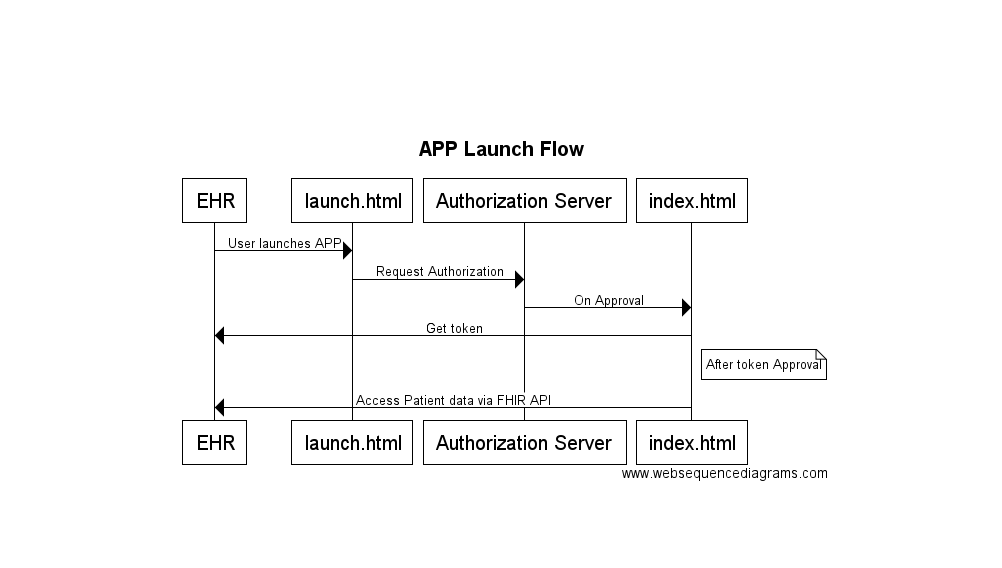
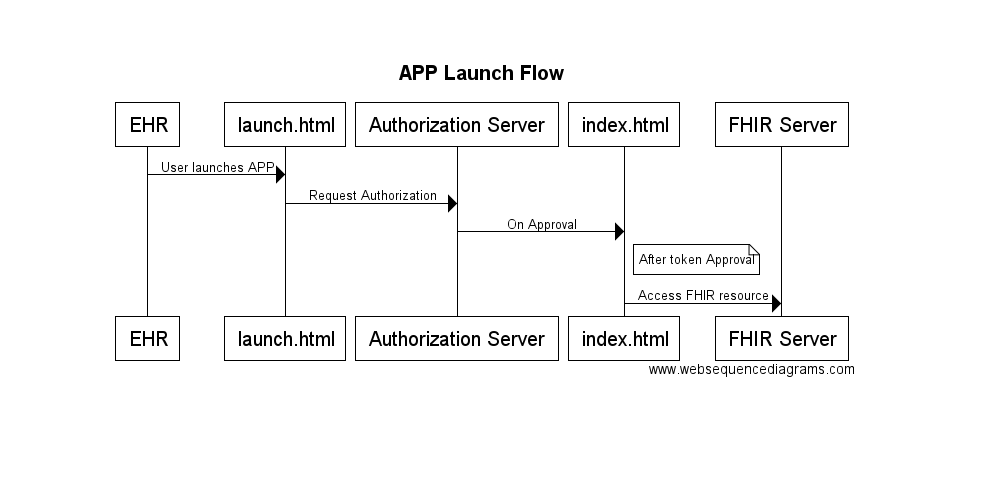
Changed according to review

diff --git a/index.html b/index.html
@@ -115,28 +115,21 @@
       <div class="content">
         <h1 id="introduction">Introduction</h1>
 
-<p>This document will help you get started on how to use SMART on FHIR API to create your app with CERNER.</p>
+<p>This document will help you get started on how to use SMART on FHIR API to create your app with Cerner.</p>
 
 <h1 id="app-launch-flow">APP Launch Flow</h1>
 
-<p><img title="High Level EHR APP Launch Flow" alt="alt text" src="/images/ehr_launch_seq.PNG" /></p>
+<p><img title="High Level EHR APP Launch Flow" alt="alt text" src="images/ehr_launch_seq.PNG" /></p>
 
 <h1 id="project-set-up">Project Set up</h1>
 
-<p>Create your project on any hosting platform and create following files:</p>
+<p>Clone the project structure from <a href="https://github.com/parthivbhagat/smart-starter-app-es5">smart-starter-app</a>. </p>
 
-<ul>
-<li>launch.html </li>
-<li>index.html </li>
-<li>src/js/starter_app.js </li>
-<li>src/css/starter_app.css</li>
-</ul>
+<p>The project structure includes follwing important files:</p>
 
-<p>You can also clone the project structure from <a href="https://github.com/parthivbhagat/smart-starter-app-es5">smart-app-starter</a>. </p>
+<p><strong>fhir-client.js</strong></p>
 
-<h1 id="install-fhir-client-js">Install fhir-client.js</h1>
-
-<p>Download <a href="https://github.com/smart-on-fhir/client-js/blob/master/dist/fhir-client.js">fhir-client.js</a> and place it under lib folder. This is the open source FHIR javascript library which would help us with OAUTH2 transactions.</p>
+<p>This is the open source FHIR javascript library which would help us with OAUTH2 transactions.</p>
 
 <p>The SMART on FHIR JavaScript client library helps you build browser-based SMART apps that interact with a FHIR REST API server. It can help your app get authorization tokens, provide information about the user and patient record in context, and issue API calls to fetch clinical data. This tutorial will lead you through the basics of building a SMART app using the JavaScript client.</p>
 
@@ -147,9 +140,17 @@
 <li><em>smart.patient.api</em> Context aware API which automatically applies its operations to the patient in context</li>
 </ul>
 
-<h1 id="registering-smart-app">Registering SMART APP</h1>
+<p><strong>launch.html</strong></p>
 
-<p>Once we have the SMART App created per the Project Setup step, get the application hosted. Your application is now ready to be registered with CERNER. Go to the link <a href="https://code.cerner.com/developer/smart-on-fhir/register">Developer Portal APP Registration</a>, sign into your CERNER Care Account and fill up following details:</p>
+<p>This html file is used to authorize the App with FHIR server for scopes the App is trying to use</p>
+
+<p><strong>index.html</strong></p>
+
+<p>This html file is primarily used to display resources on front end</p>
+
+<h1 id="registering-smart-app">Registering SMART App</h1>
+
+<p>Once we have the SMART App created per the Project Setup step, get the application hosted. Your application is now ready to be registered with Cerner. Go to the link <a href="https://code.cerner.com/developer/smart-on-fhir/register">Developer Portal APP Registration</a>, sign into your Cerner Care Account and fill up following details:</p>
 
 <table><thead>
 <tr>
@@ -163,19 +164,19 @@
 </tr>
 <tr>
 <td>SMART Launch URI</td>
-<td>URL to the launch.html file . Like https://app_url/launch.html</td>
+<td>URL to the launch.html file . Like https://<username>.github.io/smart-starter-app/launch.html</td>
 </tr>
 <tr>
 <td>Redirect URI</td>
-<td>Just put your base app url. Like https://app_url/</td>
+<td>Just put your base app url. Like https://<username>.github.io/smart-starter-app/index.html</td>
 </tr>
 <tr>
 <td>App Type</td>
-<td>SMART App type. Provider facing or Patient facing App.</td>
+<td>Select Patient facing App.</td>
 </tr>
 <tr>
 <td>FHIR Spec</td>
-<td>The FHIR server version you want to target your SMART App against.</td>
+<td>Select DSTU2</td>
 </tr>
 <tr>
 <td>Authorized</td>
@@ -187,19 +188,19 @@
 </tr>
 <tr>
 <td>User Scopes</td>
-<td>Select appropriate user scopes</td>
+<td>Dont select anything here</td>
 </tr>
 <tr>
 <td>Patient Scopes</td>
-<td>Select appropriate patient scopes</td>
+<td>Select Patient and Observation scopes</td>
 </tr>
 </tbody></table>
 
-<p>and click Register. This will send request to CERNER FHIR group for them to create client id for the app authorization.</p>
+<p>and click Register. This will send request to Cerner FHIR group for them to create client id for the app authorization.</p>
 
 <p>After this you will receive an email stating what your Client ID and Launch URL is.</p>
 
-<h1 id="initializing-the-client">Initializing the client</h1>
+<h1 id="request-authorization">Request Authorization</h1>
 
 <blockquote>
 <p>launch.html</p>
@@ -230,11 +231,13 @@
 <p>Make sure to replace CLIENT_ID with the client id provided in the email.</p>
 </blockquote>
 
+<p>FHIR.oauth2.authorize will call the following URL with requested scopes <em>https://authorization.sandboxcerner.com/tenants/d075cf8b-3261-481d-97e5-ba6c48d3b41f/protocols/oauth2/profiles/smart-v1/personas/provider/authorize?client_id=df7c5a17-52dd-4c88-8a32-cdfb557ba758&amp;response_type=code&amp;scope=patient%2FPatient.read%20patient%2FObservation.read%20launch%20online_access-%20openid%20profile&amp;redirect_uri=https%3A%2F%2Fparthivbhagat.github.io%2Fpb026393.github.io%2F&amp;state=a0d52f29-8ff1-a186-8337-2a9018979f72&amp;aud=https%3A%2F%2Ffhir.sandboxcernerpowerchart.com%2Fdstu2%2Fd075cf8b-3261-481d-97e5-ba6c48d3b41f&amp;launch=d831018a-bd90-48b1-8c91-e6b346c7f1ea</em></p>
+
 <p>Before you are able to run any operations against the FHIR API using the JS client, you will need to initialize it first.</p>
 
 <p>Based on the client_id, current EHR user, the EHR makes a decision to approve or deny access. This decision is communicated to the app by redirection to the app&rsquo;s registered redirect URL. So always make sure we replace the CLIENT_ID with client id provided after your APP gets registered.</p>
 
-<p>When an EHR user launches your app, you get a “launch request” notification. Just ask for the permissions you need using OAuth scopes like patient/*.read and once you’re authorized you’ll have an access token with the permissions you need – including access to clinical data and context like:</p>
+<p>When an EHR user launches your app, you get a “launch request” notification. Just ask for the permissions you need using OAuth scopes( like patient/Patient.read ) and once you’re authorized you’ll have an access token with the permissions you need – including access to clinical data and context like:</p>
 
 <ul>
 <li>which patient is in-context in the EHR</li>
@@ -251,15 +254,15 @@
 </tr>
 </thead><tbody>
 <tr>
-<td>patient/*.read</td>
-<td>Permission to read any resource for the current patient</td>
+<td>patient/Patient.read</td>
+<td>Permission to read Patient resource for the current patient</td>
 </tr>
 <tr>
-<td>user/*.*</td>
-<td>Permission to read and write all resources that the current user can access</td>
+<td>patient/Observation.read</td>
+<td>Permission to read Observation resource for the current patient</td>
 </tr>
 <tr>
-<td>openid profile</td>
+<td>openid, profile</td>
 <td>Permission to retrieve information about the current logged-in user</td>
 </tr>
 <tr>
@@ -271,21 +274,19 @@
 <td>When launching outside the EHR, ask for a patient to be selected at launch time</td>
 </tr>
 <tr>
-<td>offline_access</td>
-<td>Request a refresh_token that can be used to obtain a new access token to replace an expired one, even after the end-user no long is online after the access token rexpires</td>
-</tr>
-<tr>
 <td>online_access</td>
 <td>Request a refresh_token that can be used to obtain a new access token to replace an expired one, and that will be usable for as long as the end-user remains online.</td>
 </tr>
 </tbody></table>
 
 <p>For our APP we will use Patient.read, Observation.read.
-We will always include launch, online_access, openid profile scopes to our APP.</p>
+We will always include launch, online_access, openid &amp; profile scopes to our APP.</p>
 
-<p><strong>Note:</strong> Cerner does not allow use of wildcards(*). So instead of patient/*.read you will need specify a particular scope of resource you will be using. Something like patient/Patient.read, patient/Observation.read etc. For list of resources visit <a href="http://fhir.cerner.com/">http://fhir.cerner.com/</a> </p>
+<aside class="notice">
+Cerner does not allow use of wildcards(*). So instead of patient/\*.read you will need specify a particular scope of resource you will be using. Something like patient/Patient.read, patient/Observation.read etc. For list of resources visit [http://fhir.cerner.com/](http://fhir.cerner.com/) 
+</aside> 
 
-<h1 id="obtaining-the-context">Obtaining the context</h1>
+<h1 id="access-fhir-resource">Access FHIR Resource</h1>
 
 <blockquote>
 <p>starter_app.js</p>
@@ -454,6 +455,10 @@ and many others</li>
 
 <p>Please see the fhir.js documentation for the complete list of available operations.</p>
 
+<p>smart.patient.read() calls the FHIR server to get the Patient resource. The URL for the call looks like this <em>https://fhir.sandboxcernerpowerchart.com/dstu2/d075cf8b-3261-481d-97e5-ba6c48d3b41f/Patient/1316024</em></p>
+
+<p>smart.patient.api.fetchAll({type: &lsquo;Observation&rsquo;, query:&ldquo;}) calls FHIR server to get Observation Resource. The URL looks like <em>https://fhir.sandboxcernerpowerchart.com/dstu2/d075cf8b-3261-481d-97e5-ba6c48d3b41f/Observation?code=http%3A%2F%2Floinc.org%7C8302-2%2Chttp%3A%2F%2Floinc.org%7C8462-4%2Chttp%3A%2F%2Floinc.org%7C8480-6%2Chttp%3A%2F%2Floinc.org%7C2085-9%2Chttp%3A%2F%2Floinc.org%7C2089-1%2Chttp%3A%2F%2Floinc.org%7C55284-4&amp;patient=1316024</em></p>
+
 <h1 id="displaying-the-resource">Displaying the Resource</h1>
 
 <blockquote>
@@ -564,55 +569,9 @@ and many others</li>
 
 <p>We will put the display logic in draw_visualization function in starter_app.js file. Here is what it should look like.</p>
 
-<h1 id="test">Test</h1>
+<h1 id="test-your-app">Test your App</h1>
 
-<p>Commit your changes and hit the link mentioned in the email https://APP_URL/launch.html?iss=ABC&amp;launch=XYZ. You should see your index.html page with Patient demographics in it.</p>
-
-<h1 id="reading-a-single-resource">Reading a single resource</h1>
-
-<p>Instance-level operations in FHIR work with a single resource instance at a time. Two key operations are read and vread:</p>
-
-<ul>
-<li><em>smart.api.read({type: resourceType, id: resourceId})</em> Read the current state of a given resource</li>
-<li><em>smart.api.vread({type: resourceType, id: resourceId, versionId: versionId})</em> Read a specific version of a given resource</li>
-</ul>
-
-<p>Just change resourceType to the name of a FHIR resource from this complete list.</p>
-
-<h1 id="searching-for-resources">Searching for resources</h1>
-
-<p>To search for resources you’ll use either:</p>
-
-<ul>
-<li><p><em>smart.api.search({type: resourceType, query: queryObject})</em> when you want to search across patients, or</p></li>
-<li><p><em>smart.patient.api.search({type: resourceType, query: queryObject})</em> when you only want results for the patient in context.</p></li>
-</ul>
-
-<h1 id="faq">FAQ</h1>
-
-<ul>
-<li>Can I use <a href="https://www.npmjs.com/package/babel-polyfill">babel-polyfill</a> in my npm package?</li>
-</ul>
-
-<p>Using <code class="prettyprint">babel-polyfill</code> in your project will let you write latest ES6 code. But on Chrome some sort of memory leak occurs on every refresh of the page. See this <a href="https://github.com/babel/babel/issues/4523">babel-polyfill Memory Leaks</a></p>
-
-<ul>
-<li>Do i need to put follwing tag in all HTML <code class="prettyprint">&lt;meta http-equiv=&#39;X-UA-Compatible&#39; content=&#39;IE=edge&#39; /&gt;</code></li>
-</ul>
-
-<p>Yes. This ensures that the page will be displayed in edge mode instead of ie7 which is what the webservers are forcing. For more information on what these document modes do see &ldquo;Understanding legacy document modes&rdquo;  section.</p>
-
-<ul>
-<li>Do i need to put my javascripts at end of body tag?</li>
-</ul>
-
-<p>Yes. Scripts, historically, blocked additional resources from being downloaded more quickly. By placing them at the bottom, your style, content, and media could download more quickly giving the perception of improved performance.</p>
-
-<ul>
-<li>Do i need to put <code class="prettyprint">&lt;!DOCTYPE html&gt;</code> at start of each HTML file?</li>
-</ul>
-
-<p>Yes. This will indicate to the browser that the page is HTML5 and it should run in standards mode. </p>
+<p>Go to your developer portal and click on the App you have registered. Once you are in the App Details you will see client id, redirect url etc. for the App. There is also a Millenium username and password you can use to launch you App. At this time click Begin Testing. A screen will appear which will ask if you need a patient to launch this App. Say yes and select a patient. Once you do that click on Launch. At this time your App will open with the required demographics and observations for the selected patient.</p>
 
       </div>
       <div class="dark-box">

diff --git a/source/index.html.md b/source/index.html.md
@@ -59,7 +59,7 @@ and click Register. This will send request to Cerner FHIR group for them to crea
 
 After this you will receive an email stating what your Client ID and Launch URL is.
 
-# Initializing the client
+# Request Authorization
 
 > launch.html
 
@@ -118,7 +118,7 @@ We will always include launch, online_access, openid & profile scopes to our APP
 Cerner does not allow use of wildcards(*). So instead of patient/\*.read you will need specify a particular scope of resource you will be using. Something like patient/Patient.read, patient/Observation.read etc. For list of resources visit [http://fhir.cerner.com/](http://fhir.cerner.com/) 
 </aside> 
 
-# Obtaining the context
+# Access FHIR Resource
 
 > starter_app.js
 
@@ -397,9 +397,8 @@ window.drawVisualization = function(p) {
 
 We will put the display logic in draw_visualization function in starter_app.js file. Here is what it should look like.
 
-# Test
-Commit your changes and hit the link mentioned in the email https://APP_URL/launch.html?iss=ABC&launch=XYZ. You should see your index.html page with Patient demographics in it.
-
+# Test your App
+Go to your developer portal and click on the App you have registered. Once you are in the App Details you will see client id, redirect url etc. for the App. There is also a Millenium username and password you can use to launch you App. At this time click Begin Testing. A screen will appear which will ask if you need a patient to launch this App. Say yes and select a patient. Once you do that click on Launch. At this time your App will open with the required demographics and observations for the selected patient.
 
 
 
